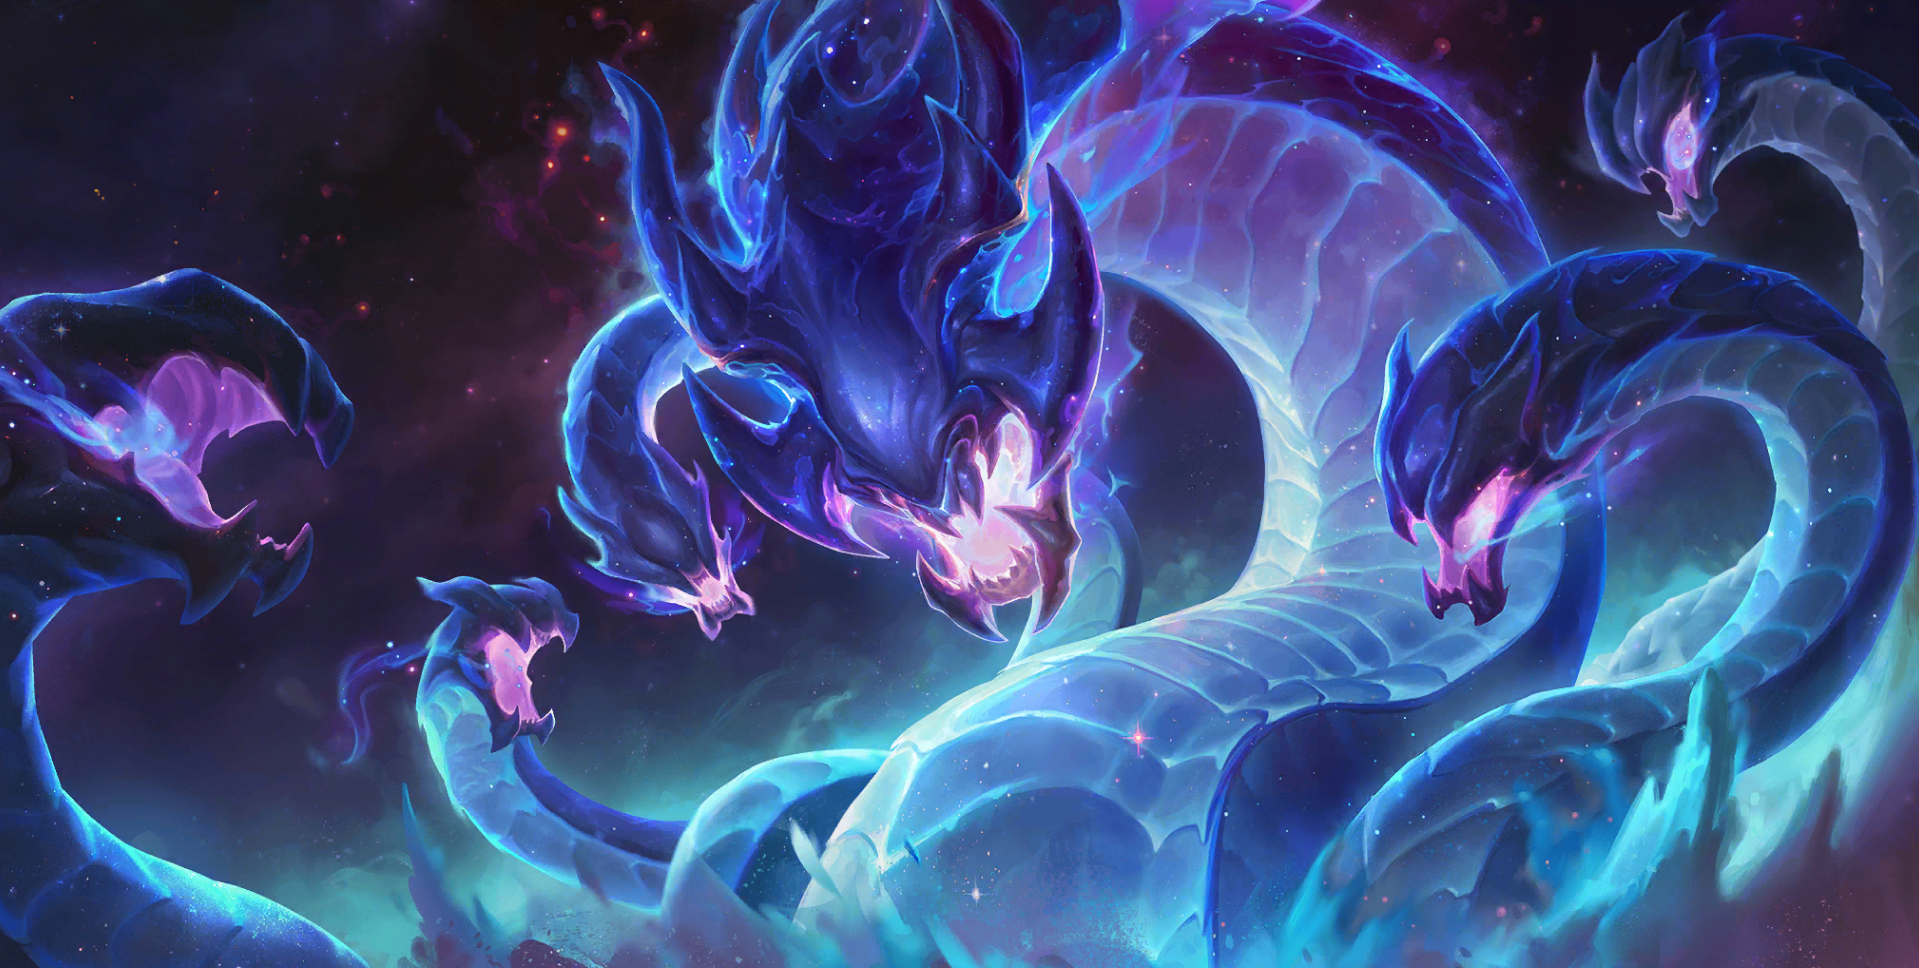
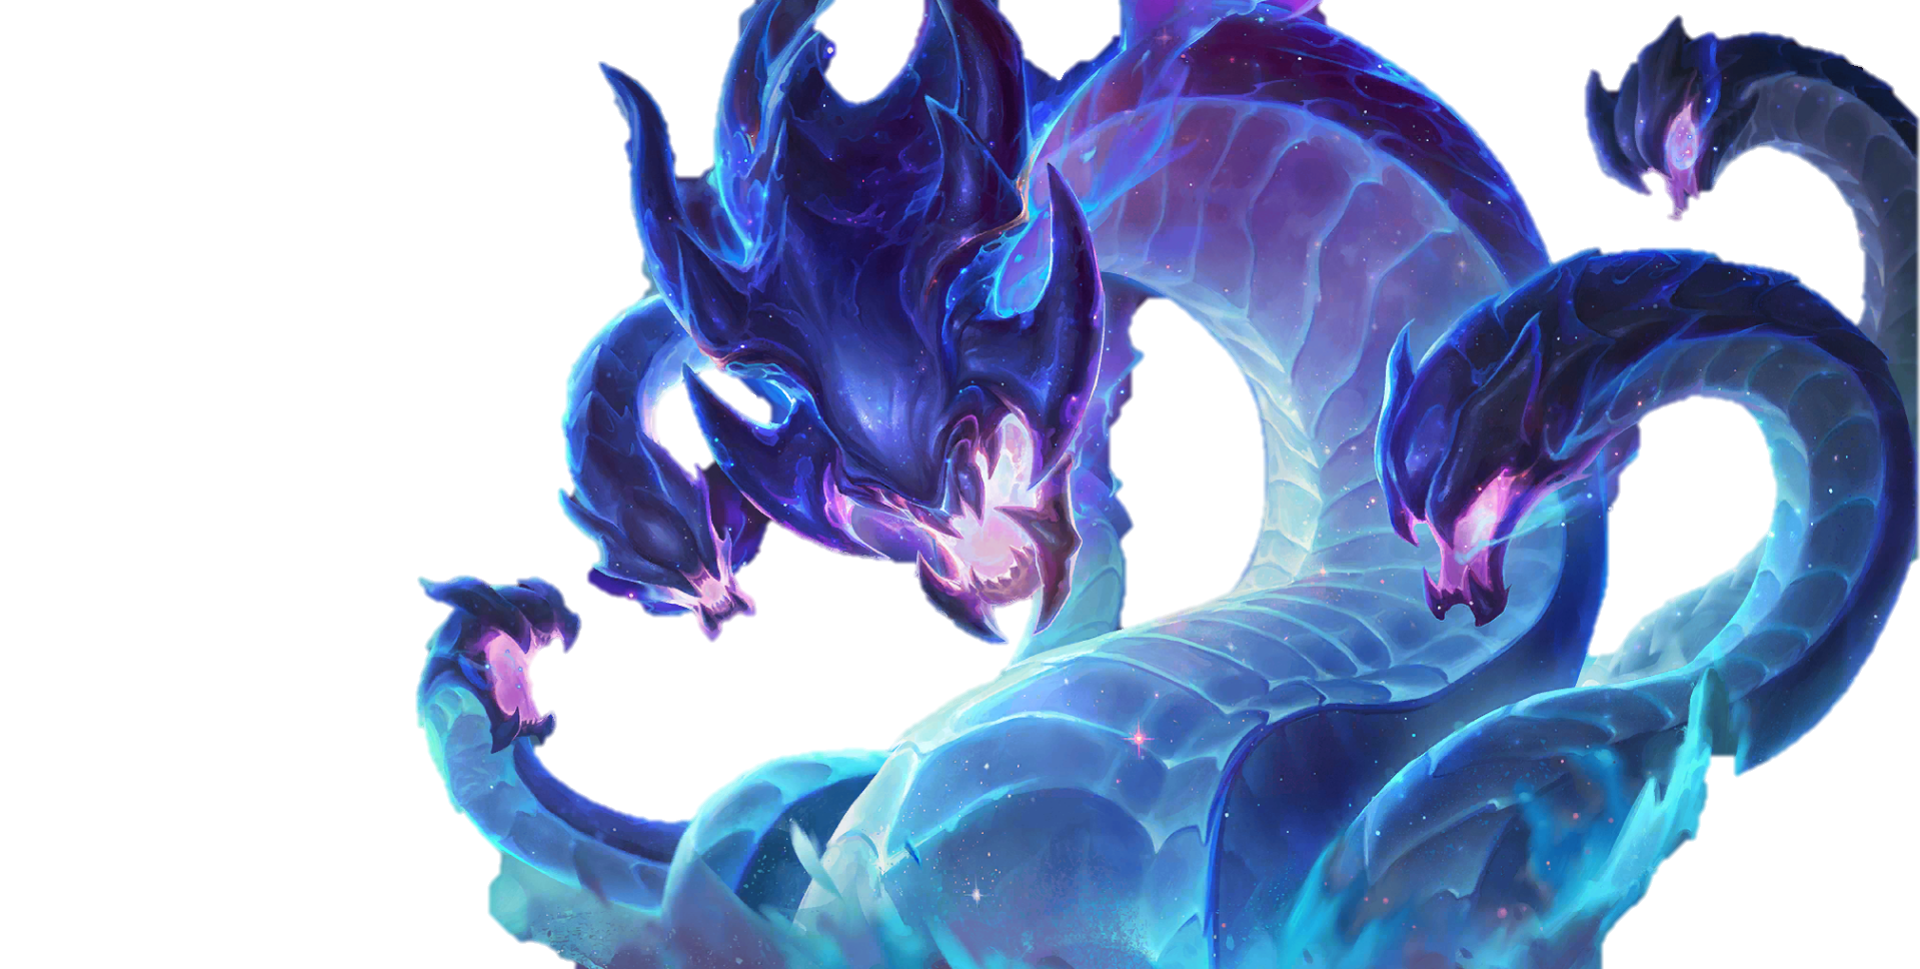
BaronFight

diff --git a/index.html b/index.html
@@ -13,121 +13,128 @@
 </head>
 
 <body>
-    <div id="container">
-        <div id="CountingBlock">
-            <img src="rp.png" id="GEM2">
-            <h1>Riot Points: <a id="count"> 0</a></h1>
-            <p>RP / Sec: <a id="GemsPerSecond">0</a></p>
-            <h1>Army:<a id="WorkerCount"> 0</a></h1>
-            <button onclick="Active1()">1 Riot Point</button>
-        </div>
-        <hr>
-        <h1>Summoner's Rift Champions</h1>
-        <!-- Yasuo  -->
-        <div id="SamGroup">
-            <li id="SamUpgrade1">
-                <p>Yasuo: <a id="WorkerSam"> 0</a></p><a><img src="SAM.png" id="SAM"></a>
-                <p>Cost: (10<a><img src="rp.png" class="riotpoint" ></a>) </p>
-                <a id="damage"> Damage: 30</a>
-                <p>Production: 0.5 <a><img src="rp.png" class="riotpoint" ></a> / Second.</p>
-                <button onclick="Active2()"> Buy 1x Yasuo</button>
-                <button onclick="Active2_1()"> Buy 5x Yasuo</button>
-                <button id="UpgradeButtonSam1" onclick="UpgradeSam1()">Upgrade 1 000 <a><img src="rp.png" class="riotpoint" ></a></button>
-            </li>
-            <li id="SamUpgrade2">
-                <p>Project Yasuo: <a id="WorkerSam_2"> 0</a></p><a><img src="SAM_2.png" id="SAM_2"></a>
-                <p>Cost: (100<a><img src="rp.png" class="riotpoint" ></a>)</p>
-                <a id="damage"> Damage: 300</a>
-                <p>Production: 5 <a><img src="rp.png" class="riotpoint" ></a> / Second.</p>
-                <button onclick="Active2_2()"> 1x Project Yasuo</button>
-                <button onclick="Active2_3()"> 5x Project Yasuo</button>
-                <button id="UpgradeButtonSam2" onclick="UpgradeSam2()">Upgrade 5 000 <img src="rp.png" class="riotpoint" ></a></button>
-            </li>
-            <li id="SamUpgrade3">
-                <p>Demonblade Yasuo: <a id="WorkerSam_3"> 0</a></p><a><img src="SAM_3.png" id="SAM_3"></a>
-                <p>Cost: (1 000 <a><img src="rp.png" class="riotpoint" ></a>) </p>
-                <a id="damage"> Damage: 3 000</a>
-                <p>Production: 50 <a><img src="rp.png" class="riotpoint" ></a> / Second.</p>
-                <button onclick="Active2_4()"> Buy 1x Nightbringer Yasuo</button>
-                <button onclick="Active2_5()"> Buy 5x Nightbringer Yasuo</button>
-               <div id="stealth"> <button id="UpgradeButtonSam2" onclick="UpgradeSam2()">Upgrade 100 000 <img src="rp.png" class="riotpoint" ></a></button></div>
-            </li>
-        </div>
-        <hr>
-        <!-- FIora  -->
-        <div id="RickGroup">
-            <li id="FioraUpgrade1">
-                <p>Fiora: <a id="WorkerRick">0</a></p><a><img src="RICK.jfif" id="RICK"></a>
-                <p>Cost: (250 <a><img src="rp.png" class="riotpoint" ></a>)</p>
-                <a id="damage"> Damage: 750</a>
-                <p>Production: 16,5 <a><img src="rp.png" class="riotpoint" ></a> / Second.</p>
-                <button onclick="Active3()"> Buy 1x Fiora</button>
-                <button onclick="Active3_1()"> Buy 5x Fiora</button>
-                <button id="UpgradeButtonFiora1" onclick="UpgradeFiora1()">Upgrade 25 000 <a><img src="rp.png" class="riotpoint" ></a></button>
-            </li>
-            <li id="FioraUpgrade2">
-                <p>Bazénová Fiora: <a id="WorkerRick_2">0</a></p><a><img src="RICK_2.jpg" id="RICK"></a>
-                <p>Cost: (2 500 <a><img src="rp.png" class="riotpoint" ></a>) </p>
-                <a id="damage"> Damage: 7 500</a>
-                <p>Production: 166,5 <a><img src="rp.png" class="riotpoint" ></a> / Second.</p>
-                <button onclick="Active3_2()"> Buy 1x Fiora</button>
-                <button onclick="Active3_3()"> Buy 5x Fiora</button>
-                <button id="UpgradeButtonFiora2" onclick="UpgradeFiora2()">Upgrade 125 000 <img src="rp.png" class="riotpoint" ></a></button>
-            </li>
-            <li id="FioraUpgrade3">
-                <p>Zlatá Fiora: <a id="WorkerRick_3">0</a></p><a><img src="RICK_3.png" id="RICK"></a>
-                <p>Cost: (25 000 <a><img src="rp.png" class="riotpoint" ></a>) </p>
-                <a id="damage"> Damage: 75 000</a>
-                <p>Production: 1 666,5 <a><img src="rp.png" class="riotpoint" ></a> / Second.</p>
-                <button onclick="Active3_4()"> Buy 1x Fiora</button>
-                <button onclick="Active3_5()"> Buy 5x Fiora</button>
+    <div id="prvnicast">
+        <div id="container">
+            <div id="CountingBlock">
+                <img src="rp.png" id="GEM2">
+                <h1>Riot Points: <a id="count"> 0</a></h1>
+                <p>RP / Sec: <a id="GemsPerSecond">0</a></p>
+                <h1>Army:<a id="WorkerCount"> 0</a></h1>
+                <button onclick="Active1()">1 Riot Point</button>
+            </div>
+            <hr>
+            <h1>Summoner's Rift Champions</h1>
+            <!-- Yasuo  -->
+            <div id="SamGroup">
+                <li id="SamUpgrade1">
+                    <p>Yasuo: <a id="WorkerSam"> 0</a></p><a><img src="SAM.png" id="SAM"></a>
+                    <p>Cost: (10<a><img src="rp.png" class="riotpoint" ></a>) </p>
+                    <a id="damage"> Damage: 30</a>
+                    <p>Production: 0.5 <a><img src="rp.png" class="riotpoint" ></a> / Second.</p>
+                    <button onclick="Active2()"> Buy 1x Yasuo</button>
+                    <button onclick="Active2_1()"> Buy 5x Yasuo</button>
+                    <button id="UpgradeButtonSam1" onclick="UpgradeSam1()">Upgrade 1 000 <a><img src="rp.png" class="riotpoint" ></a></button>
+                </li>
+                <li id="SamUpgrade2">
+                    <p>Project Yasuo: <a id="WorkerSam_2"> 0</a></p><a><img src="SAM_2.png" id="SAM_2"></a>
+                    <p>Cost: (100<a><img src="rp.png" class="riotpoint" ></a>)</p>
+                    <a id="damage"> Damage: 300</a>
+                    <p>Production: 5 <a><img src="rp.png" class="riotpoint" ></a> / Second.</p>
+                    <button onclick="Active2_2()"> 1x Project Yasuo</button>
+                    <button onclick="Active2_3()"> 5x Project Yasuo</button>
+                    <button id="UpgradeButtonSam2" onclick="UpgradeSam2()">Upgrade 5 000 <img src="rp.png" class="riotpoint" ></a></button>
+                </li>
+                <li id="SamUpgrade3">
+                    <p>Demonblade Yasuo: <a id="WorkerSam_3"> 0</a></p><a><img src="SAM_3.png" id="SAM_3"></a>
+                    <p>Cost: (1 000 <a><img src="rp.png" class="riotpoint" ></a>) </p>
+                    <a id="damage"> Damage: 3 000</a>
+                    <p>Production: 50 <a><img src="rp.png" class="riotpoint" ></a> / Second.</p>
+                    <button onclick="Active2_4()"> Buy 1x Nightbringer Yasuo</button>
+                    <button onclick="Active2_5()"> Buy 5x Nightbringer Yasuo</button>
                 <div id="stealth"> <button id="UpgradeButtonSam2" onclick="UpgradeSam2()">Upgrade 100 000 <img src="rp.png" class="riotpoint" ></a></button></div>
-            </li>
+                </li>
+            </div>
+            <hr>
+            <!-- FIora  -->
+            <div id="RickGroup">
+                <li id="FioraUpgrade1">
+                    <p>Fiora: <a id="WorkerRick">0</a></p><a><img src="RICK.jfif" id="RICK"></a>
+                    <p>Cost: (250 <a><img src="rp.png" class="riotpoint" ></a>)</p>
+                    <a id="damage"> Damage: 750</a>
+                    <p>Production: 16,5 <a><img src="rp.png" class="riotpoint" ></a> / Second.</p>
+                    <button onclick="Active3()"> Buy 1x Fiora</button>
+                    <button onclick="Active3_1()"> Buy 5x Fiora</button>
+                    <button id="UpgradeButtonFiora1" onclick="UpgradeFiora1()">Upgrade 25 000 <a><img src="rp.png" class="riotpoint" ></a></button>
+                </li>
+                <li id="FioraUpgrade2">
+                    <p>Bazénová Fiora: <a id="WorkerRick_2">0</a></p><a><img src="RICK_2.jpg" id="RICK"></a>
+                    <p>Cost: (2 500 <a><img src="rp.png" class="riotpoint" ></a>) </p>
+                    <a id="damage"> Damage: 7 500</a>
+                    <p>Production: 166,5 <a><img src="rp.png" class="riotpoint" ></a> / Second.</p>
+                    <button onclick="Active3_2()"> Buy 1x Fiora</button>
+                    <button onclick="Active3_3()"> Buy 5x Fiora</button>
+                    <button id="UpgradeButtonFiora2" onclick="UpgradeFiora2()">Upgrade 125 000 <img src="rp.png" class="riotpoint" ></a></button>
+                </li>
+                <li id="FioraUpgrade3">
+                    <p>Zlatá Fiora: <a id="WorkerRick_3">0</a></p><a><img src="RICK_3.png" id="RICK"></a>
+                    <p>Cost: (25 000 <a><img src="rp.png" class="riotpoint" ></a>) </p>
+                    <a id="damage"> Damage: 75 000</a>
+                    <p>Production: 1 666,5 <a><img src="rp.png" class="riotpoint" ></a> / Second.</p>
+                    <button onclick="Active3_4()"> Buy 1x Fiora</button>
+                    <button onclick="Active3_5()"> Buy 5x Fiora</button>
+                    <div id="stealth"> <button id="UpgradeButtonSam2" onclick="UpgradeSam2()">Upgrade 100 000 <img src="rp.png" class="riotpoint" ></a></button></div>
+                </li>
+            </div>
+            <hr>
+            <!-- Darius -->
+            <div id="MaxGroup">
+                <li id="DariusUpgrade1">
+                    <p>Darius: <a id="WorkerMax">0</a></p><a><img src="MAX.jpg" id="MAX"></a>
+                    <p>Cost: (5 000 <a><img src="rp.png" class="riotpoint" ></a>)</p>
+                    <a id="damage"> Damage: 15 000</a>
+                    <p>Production: 500 <a><img src="rp.png" class="riotpoint" ></a> / Second.</p>
+                    <button onclick="Active4()"> Buy 1x Darius</button>
+                    <button onclick="Active4_1()"> Buy 5x Darius</button>
+                    <button id="UpgradeButtonDarius1" onclick="UpgradeDarius1()">Upgrade 500 000 <a><img src="rp.png" class="riotpoint" ></a></button>
+                </li>
+                <li id="DariusUpgrade2">
+                    <p>Zabiják Dárius: <a id="WorkerMax_2">0</a></p><a><img src="MAX_2.png" id="MAX"></a>
+                    <p>Cost: (50 000 <a><img src="rp.png" class="riotpoint" ></a>) </p>
+                    <a id="damage"> Damage: 150 000</a>
+                    <p>Production: 5 000 <a><img src="rp.png" class="riotpoint" ></a> / Second.</p>
+                    <button onclick="Active4_2()"> Buy 1x Darius</button>
+                    <button onclick="Active4_3()"> Buy 5x Darius</button>
+                    <button id="UpgradeButtonDarius2" onclick="UpgradeDarius2()">Upgrade 2 500 000 <img src="rp.png" class="riotpoint" ></a></button>
+                </li>
+                <li id="DariusUpgrade3">
+                    <p>Toxický Zabiják Baronů Darius: <a id="WorkerMax_3">0</a></p><a><img src="MAX_3.png" id="MAX"></a>
+                    <p>Cost: (500 000 <a><img src="rp.png" class="riotpoint" ></a>) </p>
+                    <a id="damage"> Damage: 1 500 000</a>
+                    <p>Production: 50 000 <a><img src="rp.png" class="riotpoint" ></a> / Second.</p>
+                    <button onclick="Active4_4()"> Buy 1x Darius</button>
+                    <button onclick="Active4_5()"> Buy 5x Darius</button>
+                    <div id="stealth"> <button id="UpgradeButtonSam2" onclick="UpgradeSam2()">Upgrade 100 000 <img src="rp.png" class="riotpoint" ></a></button></div>
+                </li>
+            </div>
+            <hr>
+            <img id="ErrorMessage" src="NoClicks.jpg">
+            <img id="ErrorMessage1" src="DragonKill.png">
+            <img id="ErrorMessage2" src="NoArmy.jpg">
         </div>
-        <hr>
-        <!-- Darius -->
-        <div id="MaxGroup">
-            <li id="DariusUpgrade1">
-                <p>Darius: <a id="WorkerMax">0</a></p><a><img src="MAX.jpg" id="MAX"></a>
-                <p>Cost: (5 000 <a><img src="rp.png" class="riotpoint" ></a>)</p>
-                <a id="damage"> Damage: 15 000</a>
-                <p>Production: 500 <a><img src="rp.png" class="riotpoint" ></a> / Second.</p>
-                <button onclick="Active4()"> Buy 1x Darius</button>
-                <button onclick="Active4_1()"> Buy 5x Darius</button>
-                <button id="UpgradeButtonDarius1" onclick="UpgradeDarius1()">Upgrade 500 000 <a><img src="rp.png" class="riotpoint" ></a></button>
-            </li>
-            <li id="DariusUpgrade2">
-                <p>Zabiják Dárius: <a id="WorkerMax_2">0</a></p><a><img src="MAX_2.png" id="MAX"></a>
-                <p>Cost: (50 000 <a><img src="rp.png" class="riotpoint" ></a>) </p>
-                <a id="damage"> Damage: 150 000</a>
-                <p>Production: 5 000 <a><img src="rp.png" class="riotpoint" ></a> / Second.</p>
-                <button onclick="Active4_2()"> Buy 1x Darius</button>
-                <button onclick="Active4_3()"> Buy 5x Darius</button>
-                <button id="UpgradeButtonDarius2" onclick="UpgradeDarius2()">Upgrade 2 500 000 <img src="rp.png" class="riotpoint" ></a></button>
-            </li>
-            <li id="DariusUpgrade3">
-                <p>Toxický Zabiják Baronů Darius: <a id="WorkerMax_3">0</a></p><a><img src="MAX_3.png" id="MAX"></a>
-                <p>Cost: (500 000 <a><img src="rp.png" class="riotpoint" ></a>) </p>
-                <a id="damage"> Damage: 1 500 000</a>
-                <p>Production: 50 000 <a><img src="rp.png" class="riotpoint" ></a> / Second.</p>
-                <button onclick="Active4_4()"> Buy 1x Darius</button>
-                <button onclick="Active4_5()"> Buy 5x Darius</button>
-                <div id="stealth"> <button id="UpgradeButtonSam2" onclick="UpgradeSam2()">Upgrade 100 000 <img src="rp.png" class="riotpoint" ></a></button></div>
-            </li>
+        <div id="champ"><h1>Your Champions:<a id="WorkerCount1"> 0</a></h1></div>
+    </div>
+    <div id="druhacast">
+        <div id="DragonFight">
+            <div id="BaronPlace">
+                <h1>Baron Health: <a id="DragonHealth">10000000</a><a> / 10,000,000 Health</a><a> <button onclick="AtackDragon(),GameOver()"> Atack Baron </button></a></h1>
+            </div>
+                <img src="DRAGON.png" id="DRAGON">
         </div>
-        <hr>
-        <img id="ErrorMessage" src="NoClicks.jpg">
-        <img id="ErrorMessage1" src="DragonKill.png">
-        <img id="ErrorMessage2" src="NoArmy.jpg">
     </div>
-    <div id="champ"><h1>Your Champions:<a id="WorkerCount1"> 0</a></h1></div>
-    <hr>
-    <div id="DragonFight">
-        <h3>Baron Health: <a id="DragonHealth">10000000</a><a> / 10,000,000 Health</a><a> <button onclick="AtackDragon(),GameOver()"> Atack Baron </button></a></h3>
-        <img src="DRAGON.png" id="DRAGON">
-    </div>
-    <div id="WorkerField">
-    </div>
+            <div id="WorkerField"> 
+
+            </div>
+    
 </body>
 
 </html>

diff --git a/Style.css b/Style.css
@@ -1,9 +1,27 @@
-
 body {
+    background-color: black;
+}
+
+
+
+#prvnicast {
     background: url("summonersrift1.jpg");
     background-repeat: no-repeat;
     background-size: cover;
-  }
+}
+
+#druhacast {
+    background: url("summonersrift.jpg");
+    background-repeat: no-repeat;
+    background-size: 100% 100%;
+}
+
+#BaronPlace {
+    background-color: rgb(0, 0, 0);
+    text-align: center;
+    vertical-align: middle;
+}
+
 
 #CountingBlock {
     text-align: center;
@@ -43,7 +61,7 @@ body {
 #container {
     margin: 0 10% 0 10%;
     background-color: rgb(236, 236, 236);
-    border: 5px ;
+    border: 10px ;
     border-style: solid;
     opacity: 80%;
 }
@@ -143,4 +161,5 @@ button {
 
 #champ {
     background-color: blanchedalmond;
+    margin: auto;
 }

diff --git a/Script.js b/Script.js
@@ -100,7 +100,7 @@ var count = document.getElementById("count");
 function Active1() {
 
     document.getElementById("count").innerHTML = +count + 1;
-    count = +count + 1;
+    count = +count + 1000000;
 }
 
 
